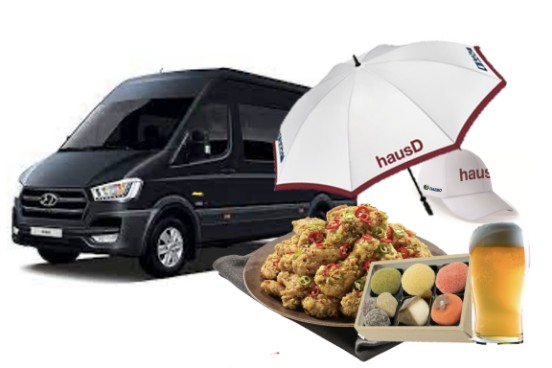
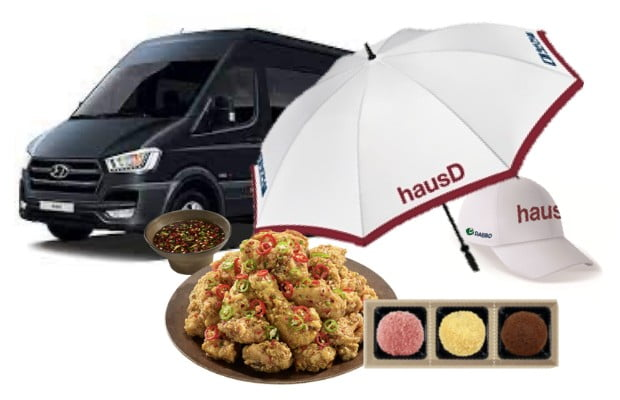
관람정책 > 문구 추가 및 수정, 이미지 수정

diff --git a/klpgas/html/policy.html b/klpgas/html/policy.html
@@ -399,7 +399,7 @@
 										<li>다과 케이터링</li>
 										<li>노랑통닭(치킨)</li>
 										<li>떡담(떡)</li>
-										<li>맥주 및 음료/커피</li>
+										<li>음료/커피</li><!-- 2023-09-25 문구 수정 -->
 										<li>대회모자 및 대회우산</li>
 									</ul>
 								</dd>
@@ -418,10 +418,10 @@
 			<div class="colbox">
 				<div class="col">
 					<h3 class="h3_tit">셔틀버스 운행 안내</h3>
-					<ul class="list_dot"><!-- 2023-09-01 문구 수정 -->
+					<ul class="list_dot"><!-- 2023-09-25 문구 수정 -->
 						<li>서원힐스 드라이빙 레인지에서 20분 간격으로 운행</li>
-						<li>갤러리 주차장에서 30분 간격으로 운행</li>
-						<li>경의중앙선 [월롱역]에서 매시 정각 운행</li>
+						<li>갤러리 주차장에서 20분 간격으로 운행(만차 시 즉시 출발)</li>
+						<li>경의중앙선[월롱역]에서 매시 정각 운행</li>
 					</ul>
 
 					<h3 class="h3_tit">셔틀버스 운행 시간</h3>
@@ -458,6 +458,7 @@
 				<li>코스 내에서 휴대폰은 진동모드 또는 전원을 꺼주세요.</li>
 				<li>관계자 이외에는 코스 내 카메라 사용을 자제해 주세요.</li>
 				<li>안전을 위해 로프 바깥쪽에서 관전해 주세요.</li>
+				<li>폭발물, 흉기 등 기타 위험 물품 소지 시, 대회장 출입이 제한될 수 있습니다.</li><!-- 2023-09-25 문구 추가 -->
 			</ul>
 			<!-- //2023-08-31 내용 추가 -->
 

diff --git a/klpgas/index.html b/klpgas/index.html
@@ -241,7 +241,8 @@
           <td>조우빈</td>
           <td class="caution">
             2023-08-31 문구 수정, 내용 추가, 마크업 및 내용 변경<br>
-            2023-09-01 문구 수정
+            2023-09-01 문구 수정<br>
+            2023-09-25 문구 추가, 문구 수정
           </td>
         </tr>
         <tr>
